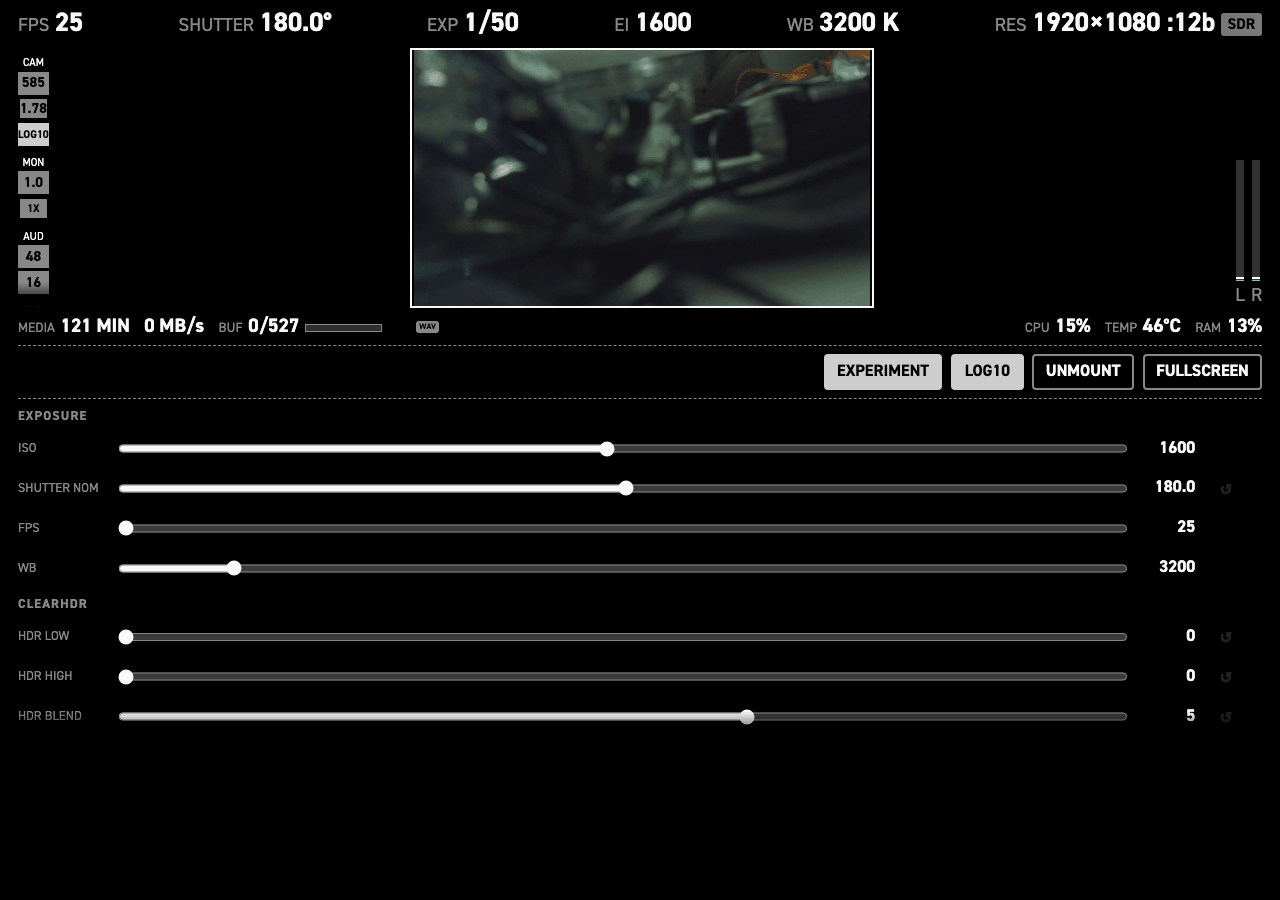
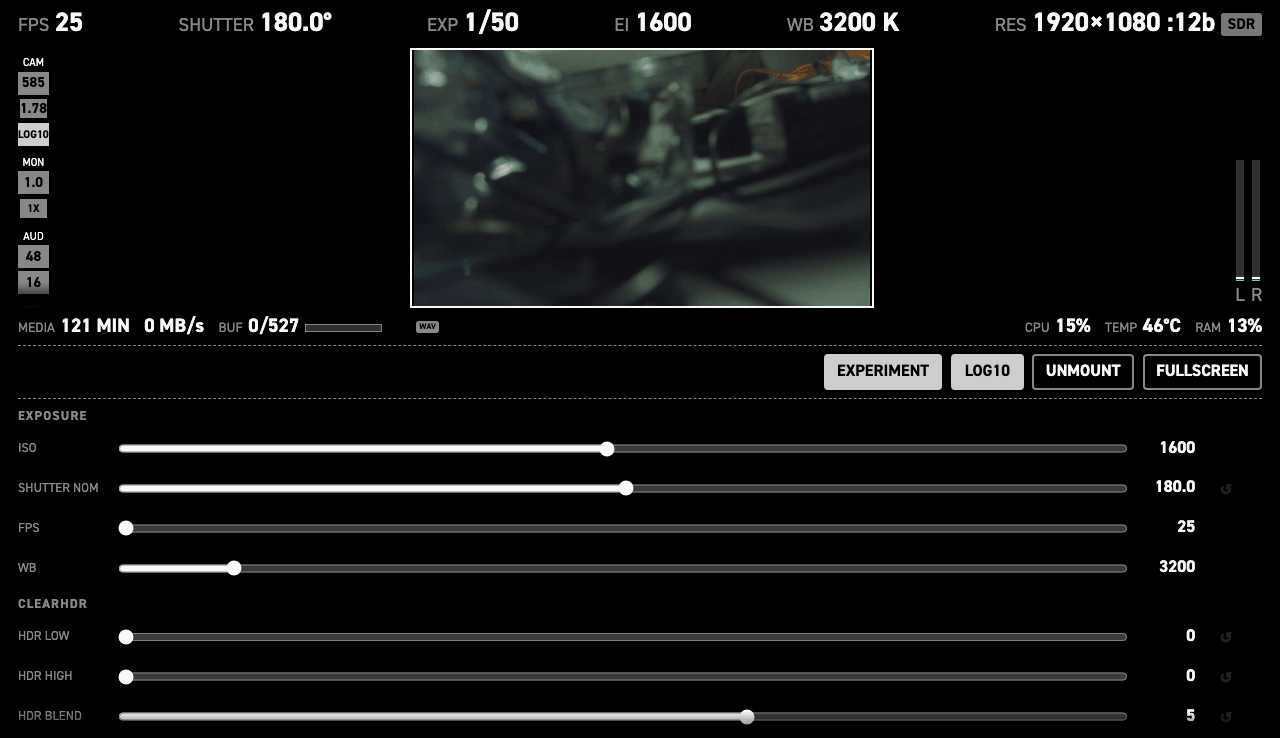
Show the drawer in the README's live view shot
The First run screenshot was the plain live view, which answers "what does
cinepi.local:5000 look like" but not "and then what". Swapped for the one
with the EXPERIMENT drawer open, so the section that tells a reader to open
a browser also shows them the controls waiting behind it.

162px of dead black cropped off the bottom of that screenshot -- it was
padding below the last slider, and at README width it was a third of the
image's height spent on nothing.

The drawer continues past the crop (the locks, free stepping and actions
are further down); the caption says so rather than letting the cut imply
that is all of it. Stitching the fuller capture on was the obvious
alternative and does not work -- the two were taken at different window
widths, 1280 against 1264, with the drawer content 8px apart, so the seam
would show.

diff --git a/README.md b/README.md
@@ -104,8 +104,8 @@ After boot, the HDMI monitor shows the live preview with the camera GUI. To use 
 3. Attach a drive formatted `exFAT` (or `ext4`) and labelled `RAW`.
 4. For a physical record button, wire a momentary button between **GPIO7** and **GND** — physical pins 26 and 25, right next to each other.
 
-<img src="docs/images/gui-web-overview.png" alt="The Cinemate web GUI in a browser, showing the live preview framed by the camera readouts" width="640"><br>
-<em>The live view at <code>cinepi.local:5000</code>. Frame rate, shutter, exposure, EI, white balance and the sensor mode run across the top; media space, write speed, buffer fill and Pi temperature across the bottom. Tap the picture to start and stop recording.</em>
+<img src="docs/images/gui-web-experiment-open.png" alt="The Cinemate web GUI in a browser: live preview framed by the camera readouts, with the EXPERIMENT drawer open underneath showing exposure and ClearHDR sliders" width="640"><br>
+<em>The live view at <code>cinepi.local:5000</code>. Frame rate, shutter, exposure, EI, white balance and the sensor mode run across the top; media space, write speed, buffer fill and Pi temperature across the bottom. Tap the picture to start and stop recording. <strong>EXPERIMENT</strong> opens the drawer underneath — ISO, shutter, fps and white balance on sliders, the ClearHDR knobs and preview zoom, with the locks, free-stepping toggles and one-shot actions below them.</em>
 
 See the [Quick start](https://tiramisioux.github.io/cinemate/getting-started/) for the full walkthrough.
 
